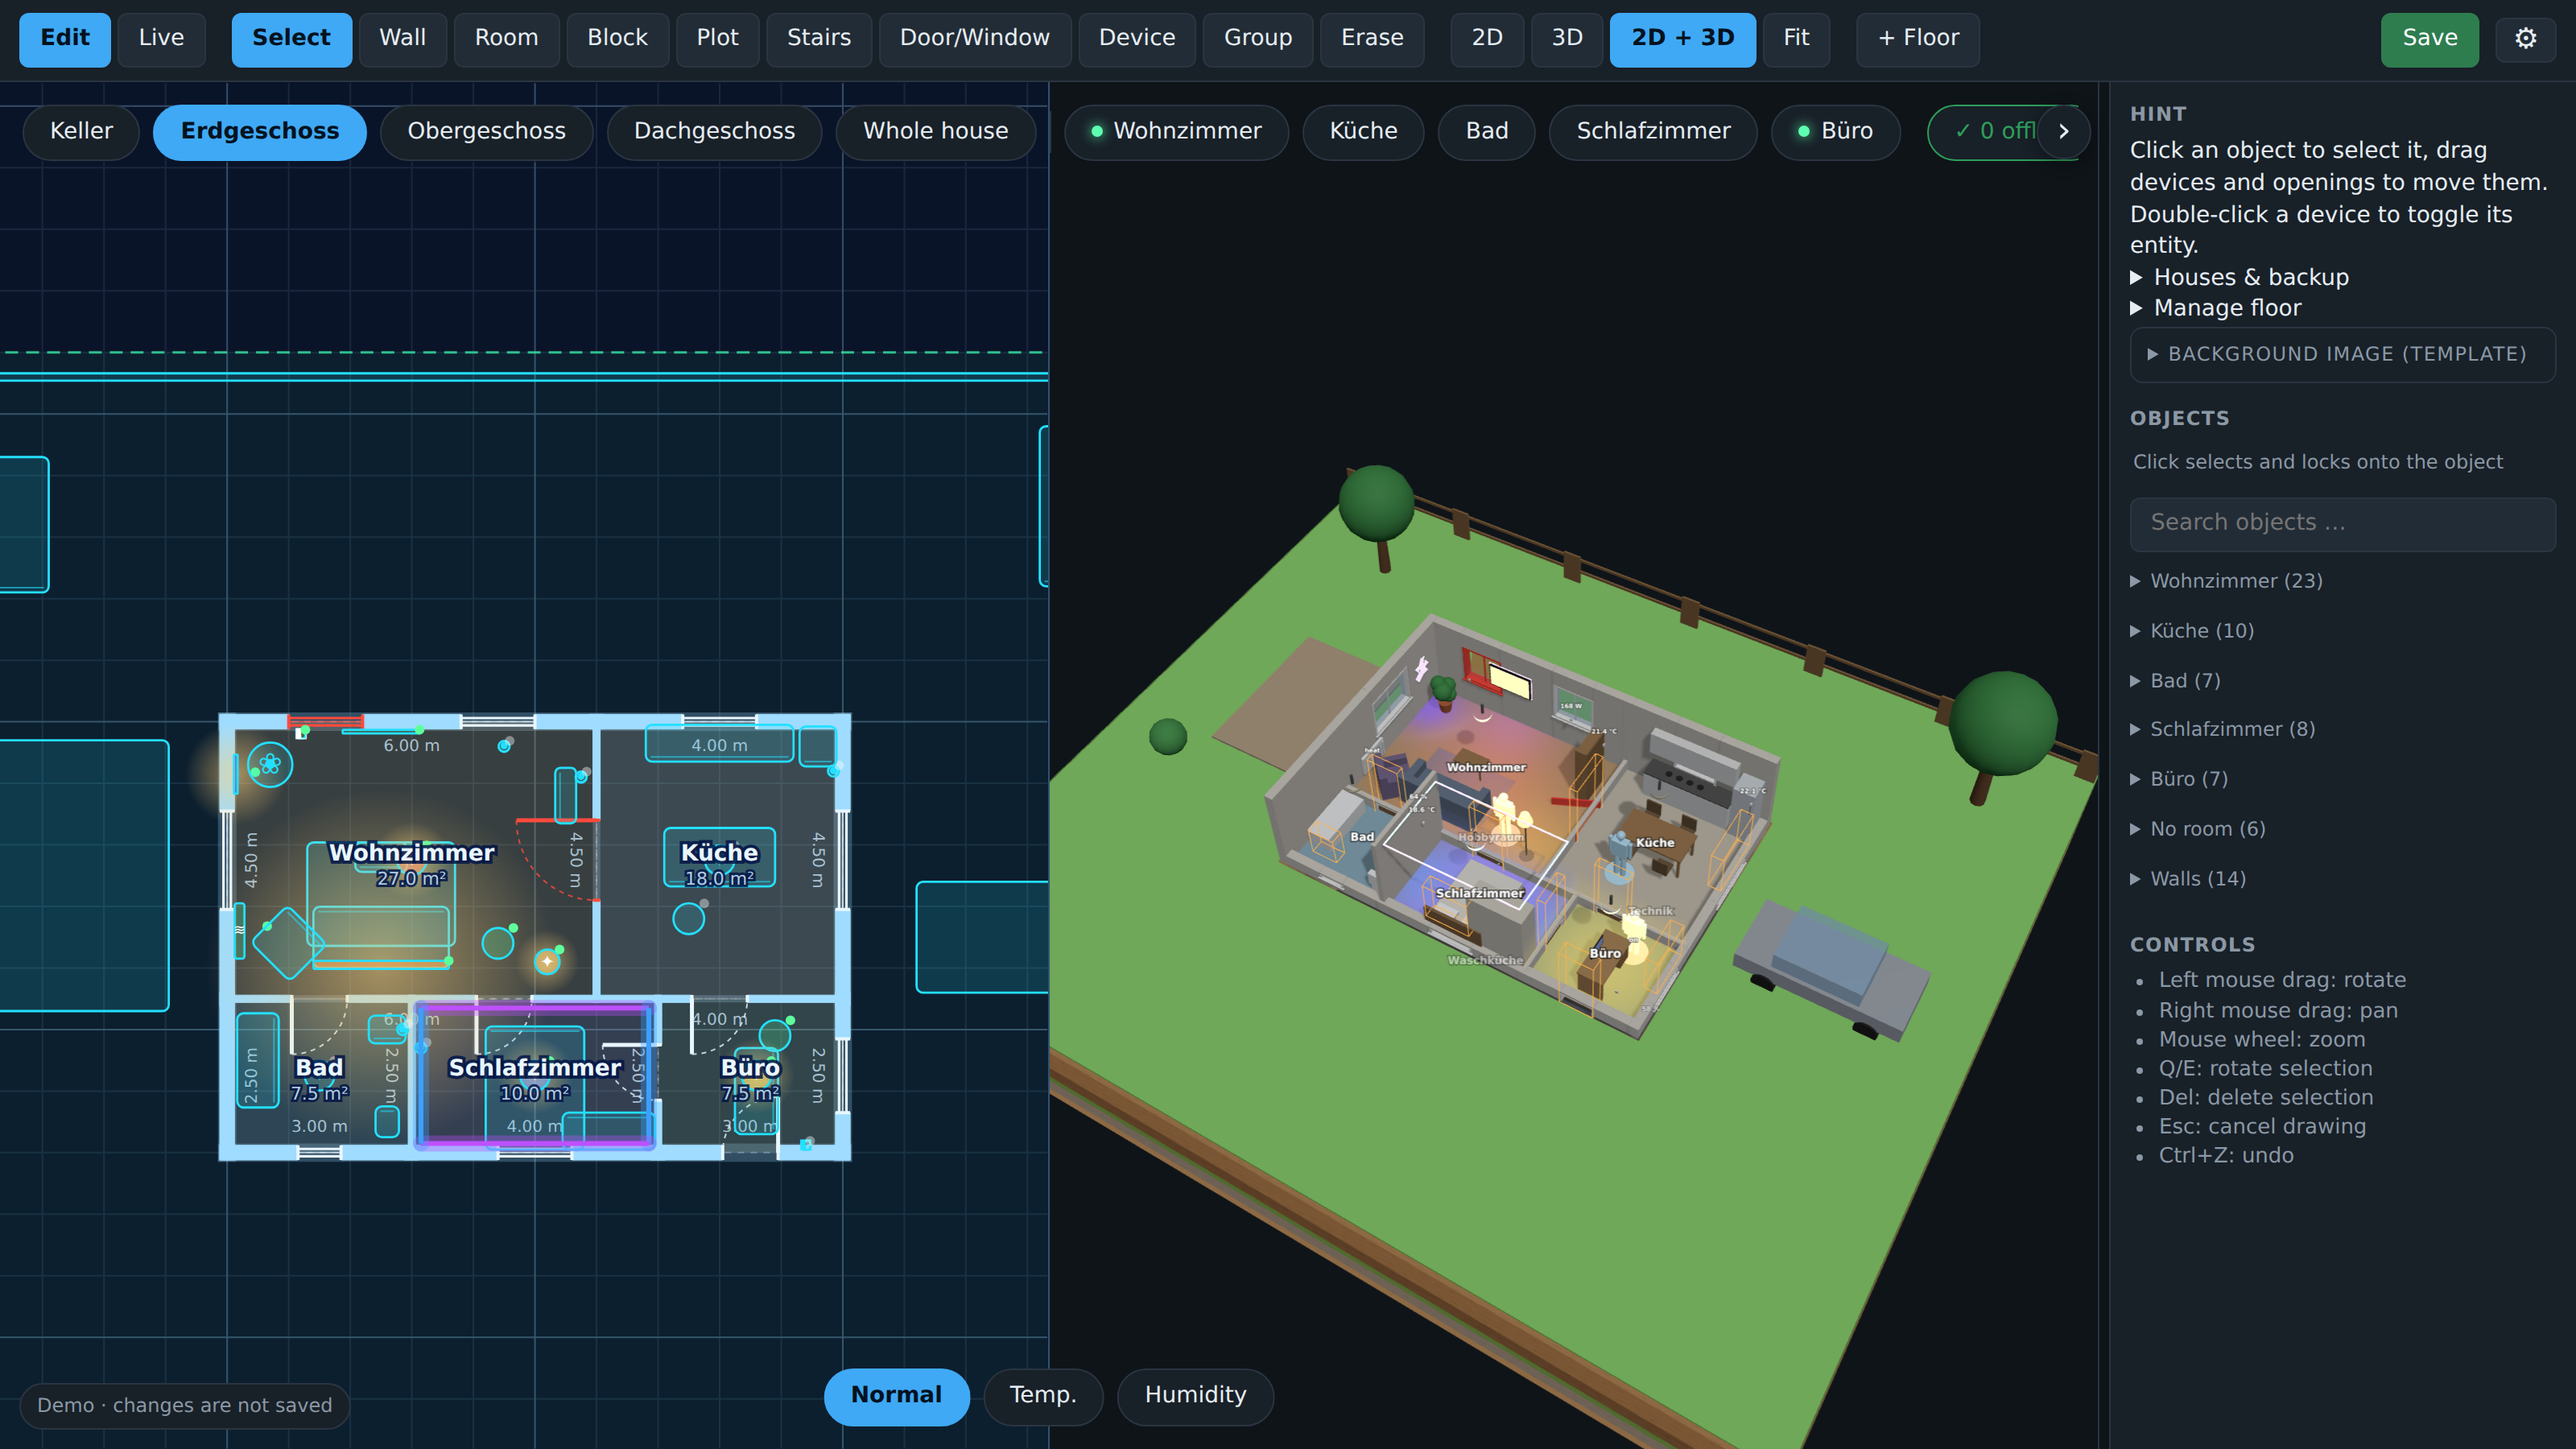
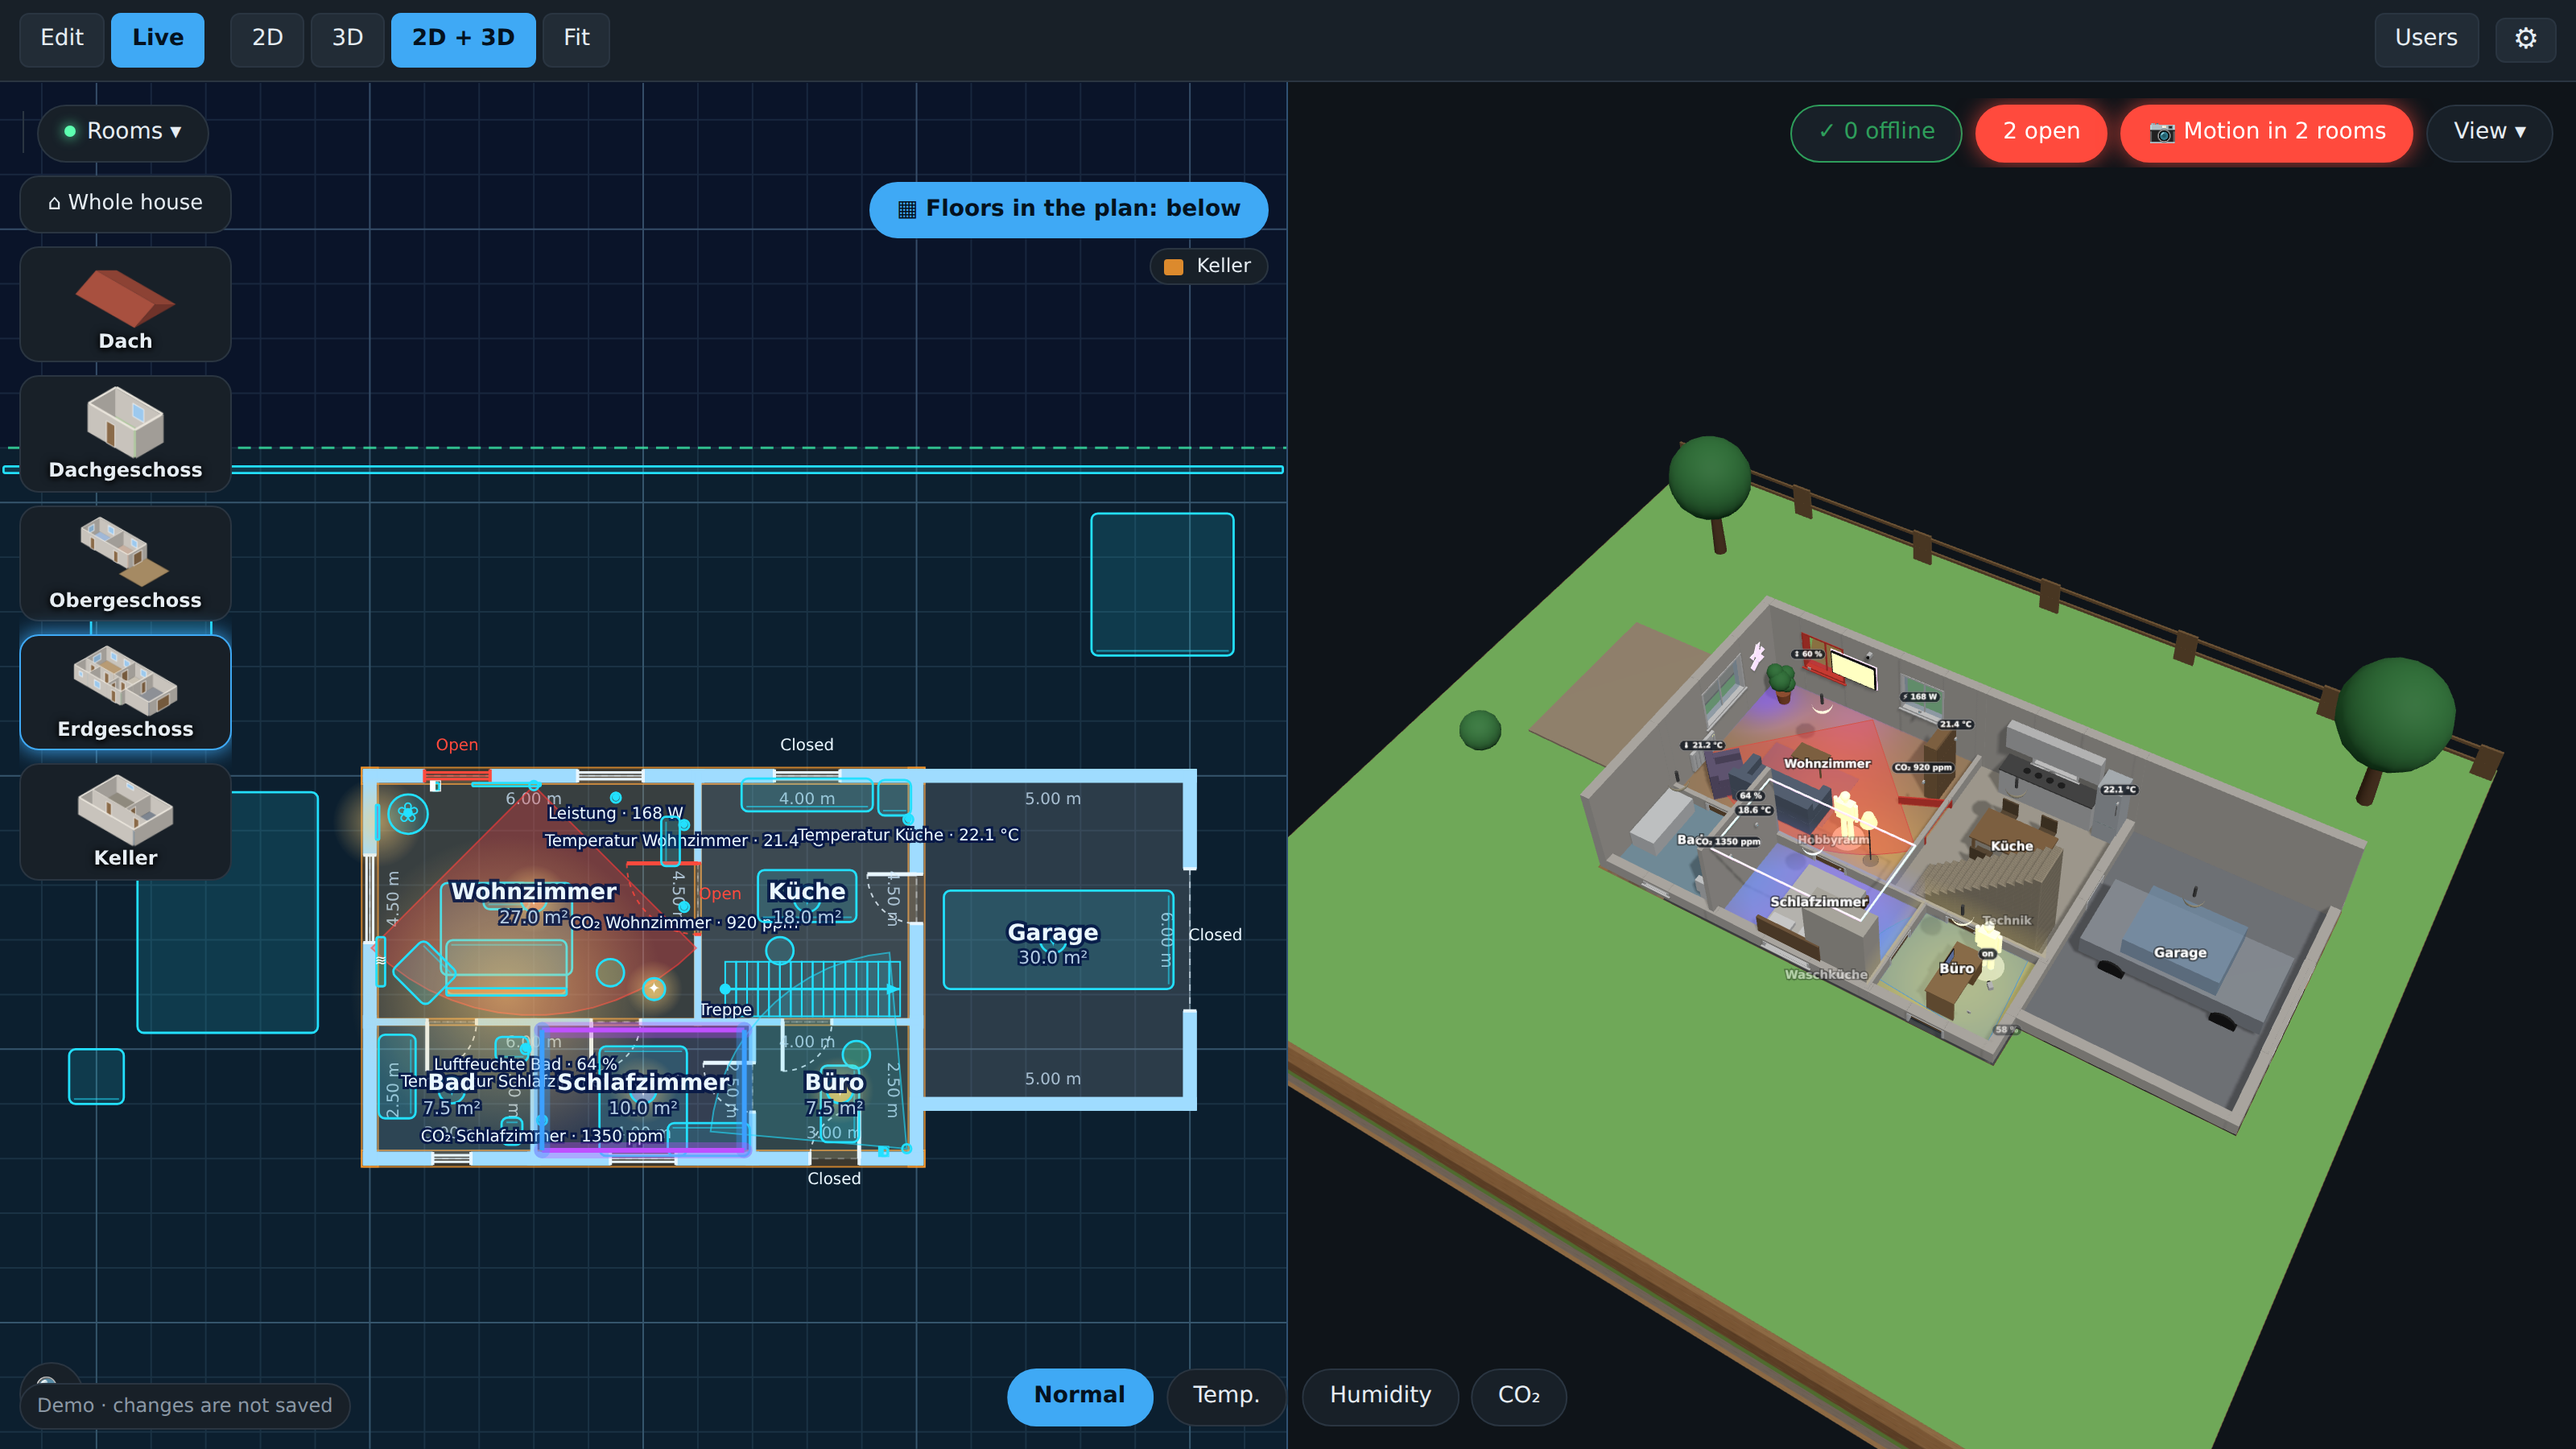
README pictures renewed from the current demo
Claude-Session: https://claude.ai/code/session_019VzANRhrt1fvWFzA14v4U6

diff --git a/CHANGELOG.md b/CHANGELOG.md
@@ -4,6 +4,9 @@ All notable changes are documented here. The format follows [Keep a Changelog](h
 
 ## [Unreleased]
 
+### Changed
+- README pictures (3D, 2D, 2D + 3D, whole house) taken anew from the current demo: they show the floor rail, the *View* menu and the floors box in the plan
+
 ## [3.20.0] - 2026-10-02
 ### Added
 - **Users & tablets as their own tab in the top bar**: the management of users, rooms and views is no longer hidden in the gear (⚙); administrators now see a **Users** button at the top (hidden for everybody else and in the read-only view)

diff --git a/floorplan3d/CHANGELOG.md b/floorplan3d/CHANGELOG.md
@@ -4,6 +4,9 @@ All notable changes are documented here. The format follows [Keep a Changelog](h
 
 ## [Unreleased]
 
+### Changed
+- README pictures (3D, 2D, 2D + 3D, whole house) taken anew from the current demo: they show the floor rail, the *View* menu and the floors box in the plan
+
 ## [3.20.0] - 2026-10-02
 ### Added
 - **Users & tablets as their own tab in the top bar**: the management of users, rooms and views is no longer hidden in the gear (⚙); administrators now see a **Users** button at the top (hidden for everybody else and in the read-only view)
